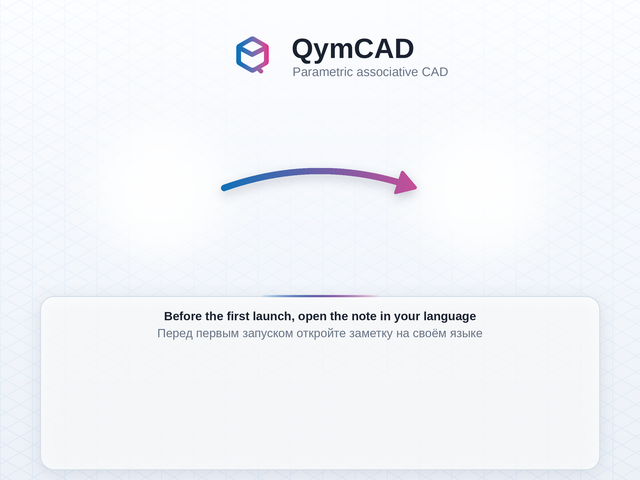
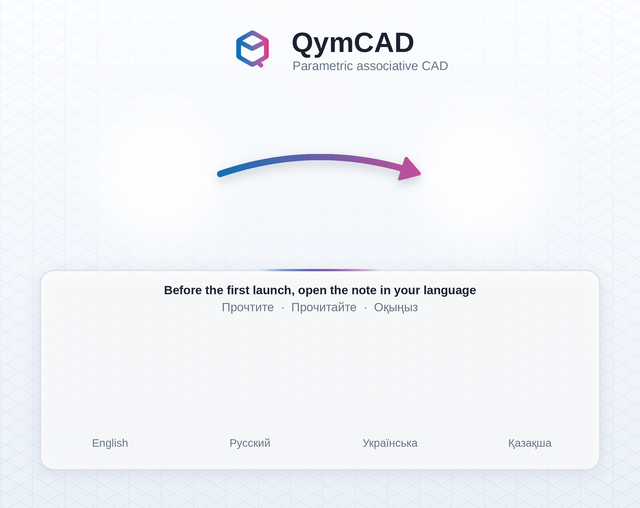
fix(packaging): the disk image carries a note per language and keeps it clear of Finder's status bar
Reported behaviour, on a screenshot of the opened image: the notes' names were hidden at the bottom of the
window, and the Ukrainian and Kazakh notes were missing. Measured on the screenshot: the title bar is 32
points on macOS 26, not 28, and Finder's status bar takes another 28 off the bottom. The status bar is
Finder's own setting, shared by every window; the image cannot turn it off.

- The window is the title bar, the 480-point design and the status bar's strip; the picture runs on under
  the strip with plain ground, so the design is whole with the bar shown or hidden.
- Four notes: README.txt, ПРОЧТИ.txt, ПРОЧИТАЙ.txt, ОҚЫҢЫЗ.txt, in a row on the card, the language's own
  name painted under each. Every note gives the system's button names in its language and in English, in
  brackets: the note's language says nothing of the language macOS is set to. Icons are 88 points so the
  four fit the card.
- Places are keyed by the decomposed (NFD) file name. HFS+ stores "Й" as "И" plus a combining breve, and
  Finder matches a place by the stored name: ПРОЧИТАЙ.txt was dropped outside the window while the other
  three, holding no letter that decomposes, stood in their places.
- The Ukrainian and Kazakh READMEs name their own notes.

Checks: the layout check prints the files decomposed and the places as written - red with the places keyed
by the composed names, "ПРОЧИТАЙ.txt goes into the image with no place in the window"; it also holds the
[…]

diff --git a/crates/qymcad/src/packaging_macos.rs b/crates/qymcad/src/packaging_macos.rs
@@ -259,8 +259,8 @@ fn a_bundle_where_nothing_names_the_build_machine_is_still_assembled() {
     ] {
         assert!(held.contains(entry), "the archive does not hold {entry}:\n{held}");
     }
-    // Both notes travel, in both languages; the second is named in an alphabet this file does not spell out.
-    assert_eq!(held.lines().filter(|l| l.ends_with(".txt") && !l.contains("Contents/")).count(), 2, "both notes must be in the archive:\n{held}");
+    // A note per language of the program travels; three are named in an alphabet this file does not spell out.
+    assert_eq!(held.lines().filter(|l| l.ends_with(".txt") && !l.contains("Contents/")).count(), 4, "all four notes must be in the archive:\n{held}");
 
     let calls = fs::read_to_string(dir.join("calls.txt")).expect("the tool was called");
     assert!(calls.contains("-add_rpath @executable_path/../Frameworks"), "the bundle was not pointed at its own Frameworks:\n{calls}");
@@ -326,9 +326,9 @@ fn an_intel_build_is_named_and_described_as_one() {
     assert!(dir.join("dist/qymcad-0.1.0-macos-x86_64.dmg").exists(), "the Intel disk image is not named for its processor:\n{}", said(&out));
     assert!(!dir.join("dist/qymcad-0.1.0-macos-arm64.dmg").exists(), "the Intel build made its disk image under the Apple Silicon name");
 
-    // every note beside the archive: the English one and the Russian one
+    // every note beside the archive, one per language of the program
     let notes: Vec<std::path::PathBuf> = fs::read_dir(dir.join("dist")).expect("the dist folder").flatten().map(|e| e.path()).filter(|p| p.extension().is_some_and(|x| x == "txt")).collect();
-    assert_eq!(notes.len(), 2, "the Intel build carries {} notes, not the two: {notes:?}", notes.len());
+    assert_eq!(notes.len(), 4, "the Intel build carries {} notes, not the four: {notes:?}", notes.len());
     for note in notes {
         let text = fs::read_to_string(&note).expect("the note is written");
         assert!(text.contains("Intel") && !text.contains("Apple Silicon"), "{} does not describe an Intel build:\n{text}", note.display());
@@ -397,7 +397,7 @@ fn a_bundle_that_does_not_verify_is_not_archived() {
     assert!(!disk_image(&dir).exists(), "a disk image was made out of a bundle that does not verify");
 }
 
-/// THE DISK IMAGE, BESIDE THE ARCHIVE. It holds the program and the two notes, laid out by the settings
+/// THE DISK IMAGE, BESIDE THE ARCHIVE. It holds the program and the four notes, laid out by the settings
 /// file beside the script, and it is made from the bundle only after that bundle verified. The staging
 /// folder is gone afterwards, so `dist/` holds the packages and the bundle and nothing half-made.
 #[test]
@@ -413,7 +413,7 @@ fn a_disk_image_holds_the_verified_bundle_and_the_notes() {
     for entry in ["QymCAD.app", "README.txt"] {
         assert!(lines.contains(&entry), "the image's folder does not hold {entry}:\n{held}");
     }
-    assert_eq!(lines.iter().filter(|l| l.ends_with(".txt")).count(), 2, "both notes must be in the image:\n{held}");
+    assert_eq!(lines.iter().filter(|l| l.ends_with(".txt")).count(), 4, "all four notes must be in the image:\n{held}");
 
     let calls = signs(&dir);
     let verify = calls.iter().position(|c| c.starts_with("codesign --verify"));
@@ -435,18 +435,20 @@ fn the_notes_lead_to_open_anyway_not_to_a_terminal() {
     for step in ["Privacy & Security", "Open Anyway", "Applications"] {
         assert!(en.contains(step), "the English note does not name {step:?}:\n{en}");
     }
-    // The Russian note is the other `.txt` in dist/; its words are not spelled out in this file, so it is held
-    // to the same shape: the same four steps, the same Touch ID, the same menu path written with `->`.
-    let ru = fs::read_dir(dir.join("dist"))
+    // The other three are named and written in alphabets this file does not spell out, so each is held to the
+    // English one's shape: the same four steps, Touch ID, the menu path written with `->`, and the system's
+    // button names in English beside its own words - the note's language says nothing of the system's.
+    let notes: Vec<String> = fs::read_dir(dir.join("dist"))
         .expect("dist/ is readable")
         .map(|e| e.expect("an entry").path())
-        .find(|p| p.extension().is_some_and(|x| x == "txt") && !p.ends_with("README.txt"))
-        .map(|p| fs::read_to_string(p).expect("the Russian note is readable"))
-        .expect("the Russian note is written");
-    for step in ["  1. ", "  2. ", "  3. ", "  4. ", "Touch ID", " -> "] {
-        assert!(en.contains(step) && ru.contains(step), "the two notes differ at {step:?}:\n{en}\n{ru}");
-    }
-    for text in [&en, &ru] {
+        .filter(|p| p.extension().is_some_and(|x| x == "txt"))
+        .map(|p| fs::read_to_string(p).expect("a note is readable"))
+        .collect();
+    assert_eq!(notes.len(), 4, "a note per language of the program: English, Russian, Ukrainian, Kazakh");
+    for text in &notes {
+        for step in ["  1. ", "  2. ", "  3. ", "  4. ", "Touch ID", " -> ", "Privacy & Security", "Open Anyway"] {
+            assert!(text.contains(step), "a note lacks {step:?}:\n{text}");
+        }
         assert!(!text.contains("xattr") && !text.contains("Terminal"), "a note still sends the reader to a terminal:\n{text}");
     }
 }
@@ -477,22 +479,27 @@ struct Placed {
 /// program and Applications, the card under the notes - from the numbers in settings.py. A picture of the
 /// wrong size is stretched by nobody and cropped by Finder; an icon moved off its place sits on the arrow.
 /// The settings file is executed by python3 the way dmgbuild executes it.
+///
+/// A file is matched to its place by its name as HFS+ stores it, decomposed (NFD): the probe prints the files
+/// decomposed and the places as written, so a place keyed by a composed letter with a breve finds no file -
+/// as the Ukrainian note found none on the screen. The picture runs on under the status bar's strip, so it is that much taller.
 #[test]
 fn the_window_layout_fits_its_background() {
     let art = Path::new(env!("CARGO_MANIFEST_DIR")).join("../../packaging/macos/dmg");
     let probe = "import sys\n\
                  scope = {'defines': {'stage': 'S', 'art': sys.argv[2]}}\n\
                  exec(compile(open(sys.argv[1], encoding='utf-8').read(), 'settings.py', 'exec'), scope, scope)\n\
-                 print(scope['WIDTH'], scope['HEIGHT'], scope['icon_size'])\n\
+                 import unicodedata\n\
+                 print(scope['WIDTH'], scope['HEIGHT'], scope['STATUS_BAR'], scope['icon_size'])\n\
                  for n, (x, y) in scope['icon_locations'].items(): print(n, x, y, sep='\\t')\n\
-                 print('files', *scope['files'], sep='\\t')\n\
+                 print('files', *(unicodedata.normalize('NFD', f) for f in scope['files']), sep='\\t')\n\
                  print('symlinks', *scope['symlinks'], sep='\\t')\n";
     let out = Command::new("python3").arg("-c").arg(probe).arg(art.join("settings.py")).arg(&art).output().expect("python3 runs");
     assert!(out.status.success(), "settings.py does not execute:\n{}", said(&out));
     let text = String::from_utf8_lossy(&out.stdout).into_owned();
     let mut lines = text.lines();
     let size: Vec<f64> = lines.next().expect("the window size").split(' ').map(|v| v.parse().expect("a number")).collect();
-    let (width, height, icon) = (size[0], size[1], size[2]);
+    let (width, height, strip, icon) = (size[0], size[1], size[2], size[3]);
     let mut placed = Vec::new();
     let mut shown = Vec::new();
     for line in lines {
@@ -504,7 +511,7 @@ fn the_window_layout_fits_its_background() {
         }
     }
 
-    let picture = PngSize { width: width as u32, height: height as u32 };
+    let picture = PngSize { width: width as u32, height: (height + strip) as u32 };
     assert_eq!(png_size(&art.join("background.png")), picture, "background.png is not the window's size");
     let twice = PngSize { width: 2 * picture.width, height: 2 * picture.height };
     assert_eq!(png_size(&art.join("background@2x.png")), twice, "background@2x.png is not twice the window's size");

diff --git a/packaging/macos/dmg/settings.py b/packaging/macos/dmg/settings.py
@@ -4,36 +4,47 @@
 # are written here once, and the picture is drawn from them rather than from a second copy of the numbers.
 #
 # `dmgbuild` executes this file with `defines` set from its `-D` arguments:
-#   stage - the folder holding QymCAD.app and the two notes, made by bundle.sh;
+#   stage - the folder holding QymCAD.app and the four notes, made by bundle.sh;
 #   art   - this directory, where the background pictures lie.
 #
 # Coordinates are Finder points, measured from the top left of the window's content; an icon location is
-# the centre of the icon. The background is exactly the content size, at 1x and 2x.
+# the centre of the icon. The background is the content plus the status bar's strip, at 1x and 2x.
 import os.path
+import unicodedata
 
 stage = defines.get("stage", "")  # noqa: F821 - given by dmgbuild
 art = defines.get("art", "")  # noqa: F821
 
-# The content area. `window_rect` is the whole window, title bar included, so the window is made that much
-# taller than the picture: Finder reported the opened window as 640 x 508 for a 640 x 480 picture.
+# THE WINDOW IS THE DESIGN PLUS TWO STRIPS FINDER DRAWS OVER IT. `window_rect` is the whole window: the
+# title bar comes off its top, 32 points on macOS 26, and the status bar off its bottom, 28 points - both
+# measured on a screenshot of the opened window. The status bar is Finder's own setting, shared by every
+# window, and the image cannot turn it off: the first layout lost the notes' names under it. So the design
+# is HEIGHT tall, the picture runs on under the status bar's strip with plain ground, and the window is
+# made tall enough for both - with the bar hidden the strip simply shows as a margin.
 WIDTH, HEIGHT = 640, 480
-TITLE_BAR = 28
+TITLE_BAR = 32
+STATUS_BAR = 28
 
-APP = (160, 190)
-APPLICATIONS = (480, 190)
-NOTE_EN = (250, 396)
-NOTE_RU = (390, 396)
+APP = (160, 176)
+APPLICATIONS = (480, 176)
+
+# One note per language of the program, in a row on the card; each name says its language.
+NOTE_Y = 370
+NOTES = {
+    "README.txt": (110, NOTE_Y),
+    "ПРОЧТИ.txt": (250, NOTE_Y),
+    "ПРОЧИТАЙ.txt": (390, NOTE_Y),
+    "ОҚЫҢЫЗ.txt": (530, NOTE_Y),
+}
+# What draw_background.py writes under each note: the language's own name for itself.
+LANGUAGES = {"README.txt": "English", "ПРОЧТИ.txt": "Русский", "ПРОЧИТАЙ.txt": "Українська", "ОҚЫҢЫЗ.txt": "Қазақша"}
 
 # LZMA-compressed, read-only: 27.3 MB for the bundle that is 40.5 MB as zlib (UDZO), 36.6 MB as LZFSE (ULFO)
 # and 36.5 MB as the zip, measured on one build. It mounts on macOS 10.15 and newer; this build needs 12.
 format = "ULMO"
 filesystem = "HFS+"
 
-files = [
-    os.path.join(stage, "QymCAD.app"),
-    os.path.join(stage, "README.txt"),
-    os.path.join(stage, "ПРОЧТИ.txt"),
-]
+files = [os.path.join(stage, "QymCAD.app")] + [os.path.join(stage, name) for name in NOTES]
 symlinks = {"Applications": "/Applications"}
 
 # The volume icon: the mounted image shows the program's own icon on the desktop and in the sidebar, not
@@ -43,7 +54,7 @@ icon = os.path.join(stage, "QymCAD.app", "Contents", "Resources", "qymcad.icns")
 # background.png beside background@2x.png: dmgbuild joins the pair into one HiDPI TIFF itself.
 background = os.path.join(art, "background.png")
 
-window_rect = ((200, 140), (WIDTH, HEIGHT + TITLE_BAR))
+window_rect = ((200, 120), (WIDTH, TITLE_BAR + HEIGHT + STATUS_BAR))
 default_view = "icon-view"
 show_toolbar = False
 show_sidebar = False
@@ -52,13 +63,16 @@ show_status_bar = False
 show_tab_view = False
 show_icon_preview = False
 arrange_by = None
-icon_size = 96
+icon_size = 88
 text_size = 13
 label_pos = "bottom"
 
+# KEYED BY THE DECOMPOSED NAME. HFS+ stores a file name decomposed (NFD): "Й" becomes "И" plus a combining
+# breve. Finder matches a place to a file by that stored name, so a place keyed by the composed name is
+# never found - ПРОЧИТАЙ.txt was put wherever Finder liked, while ПРОЧТИ.txt and ОҚЫҢЫЗ.txt, which hold no
+# letter that decomposes, stood in their places. Seen on the screenshot of the opened window.
 icon_locations = {
     "QymCAD.app": APP,
     "Applications": APPLICATIONS,
-    "README.txt": NOTE_EN,
-    "ПРОЧТИ.txt": NOTE_RU,
+    **{unicodedata.normalize("NFD", name): place for name, place in NOTES.items()},
 }

diff --git a/packaging/macos/dmg/draw_background.py b/packaging/macos/dmg/draw_background.py
@@ -106,7 +106,7 @@ def header(img, width, bold, regular):
     text_w = d.textlength("QymCAD", font=name)
     gap = px(12)
     x = (px(width) - (side + gap + text_w)) / 2
-    top = px(28)
+    top = px(22)
     img.alpha_composite(logo, (round(x), top))
     # The name sits on a baseline just above the logo's middle, the line under it hangs from just below it.
     d.text((x + side + gap, top + side / 2 + px(3)), "QymCAD", font=name, fill=INK, anchor="ls")
@@ -176,8 +176,9 @@ def arrow(img, start, end, lift):
     img.alpha_composite(paint)
 
 
-def panel(img, width, top, bottom, bold, regular):
-    """The card under the two notes: what to do before the first launch, in both languages."""
+def panel(img, width, top, bottom, notes, bold, regular):
+    """The card under the notes: what to do before the first launch, and under each note's name the name
+    of its language, written in that language - the file name alone says "read me", not whose."""
     box = [px(40), px(top), px(width - 40), px(bottom)]
     radius = px(14)
     img.alpha_composite(soft_shadow(img.size, lambda d: d.rounded_rectangle(box, radius, fill=255), px(8), 0.10, (0, px(3))))
@@ -192,7 +193,12 @@ def panel(img, width, top, bottom, bold, regular):
     body = ImageFont.truetype(regular, px(12))
     y = px(top + 20)
     d.text((cx, y), "Before the first launch, open the note in your language", font=head, fill=INK, anchor="mm")
-    d.text((cx, y + px(17)), "Перед первым запуском откройте заметку на своём языке", font=body, fill=MUTED, anchor="mm")
+    d.text((cx, y + px(17)), "Прочтите  \u00b7  Прочитайте  \u00b7  Оқыңыз", font=body, fill=MUTED, anchor="mm")
+
+    # Under Finder's label of each note: about 4 points below the icon, then a 16-point line of 13-point text.
+    lang = ImageFont.truetype(regular, px(11))
+    for (x, y_note), language, half in notes:
+        d.text((px(x), px(y_note + half + 4 + 16 + 9)), language, font=lang, fill=MUTED, anchor="mm")
 
     # A thin rule of the logo's gradient along the card's top edge: the one place the colour repeats.
     rule = Image.new("RGBA", img.size, (0, 0, 0, 0))
@@ -213,20 +219,22 @@ def main():
 
     s = layout()
     width, height = s["WIDTH"], s["HEIGHT"]
+    # The picture runs on under the status bar's strip; the design stays within `height`.
+    picture = height + s["STATUS_BAR"]
     app, apps = s["APP"], s["APPLICATIONS"]
-    note_top = min(s["NOTE_EN"][1], s["NOTE_RU"][1])
+    half = s["icon_size"] / 2
+    notes = [(place, s["LANGUAGES"][name], half) for name, place in s["NOTES"].items()]
 
-    img = ground(width, height)
+    img = ground(width, picture)
     header(img, width, bold, args.regular)
     wells(img, [app, apps])
-    half = s["icon_size"] / 2
     arrow(img, (app[0] + half + 16, app[1] - 2), (apps[0] - half - 16, apps[1] - 2), 34)
-    panel(img, width, note_top - 100, height - 10, bold, args.regular)
+    panel(img, width, s["NOTE_Y"] - 100, height - 10, notes, bold, args.regular)
 
     img = img.convert("RGB")
-    img.resize((width * 2, height * 2), Image.LANCZOS).save(os.path.join(HERE, "background@2x.png"), optimize=True)
-    img.resize((width, height), Image.LANCZOS).save(os.path.join(HERE, "background.png"), optimize=True)
-    print(f"background.png {width}x{height}, background@2x.png {width * 2}x{height * 2}")
+    img.resize((width * 2, picture * 2), Image.LANCZOS).save(os.path.join(HERE, "background@2x.png"), optimize=True)
+    img.resize((width, picture), Image.LANCZOS).save(os.path.join(HERE, "background.png"), optimize=True)
+    print(f"background.png {width}x{picture}, background@2x.png {width * 2}x{picture * 2}")
     return 0
 
 

diff --git a/packaging/README.md b/packaging/README.md
@@ -122,7 +122,7 @@ cargo build --release --bin qymcad
 bash packaging/macos/bundle.sh
 ```
 
-It leaves two packages in `dist/` holding the same signed bundle and the same notes: `*-macos-<arch>.zip`, and
+It leaves two packages in `dist/` holding the same signed bundle and the same four notes: `*-macos-<arch>.zip`, and
 `*-macos-<arch>.dmg`, a disk image that shows the program beside a link to Applications.
 
 **What makes a mac bundle different.** A dylib carries the path it was BUILT at, baked into whatever
@@ -135,7 +135,7 @@ program starts here and nowhere else, and it says so only on somebody else's com
 CI, ad hoc otherwise - so the bundle verifies, but no certificate Apple issued vouches for it. On the first
 launch macOS refuses it: "Apple could not verify QymCAD is free of malware". System Settings -> Privacy &
 Security then lists it with an "Open Anyway" button; one press and the password, and it opens from then on.
-The notes beside the app walk a person through that in both languages, step by step, because whoever is not
+The notes beside the app - one per language of the program - walk a person through that step by step, because whoever is not
 told deletes the program instead. The Terminal steps (`xattr -cr`) were the way round a broken signature,
 which macOS called damaged and offered no button for; with a signature that verifies they are not needed.
 

diff --git a/README.uk.md b/README.uk.md
@@ -83,7 +83,7 @@ chmod +x qymcad-*.AppImage
 
 **macOS 12+ (Apple Silicon)** — `qymcad-*-macos-arm64.dmg`: відкрийте та перетягніть QymCAD у «Програми»;
 або `qymcad-*-macos-arm64.zip`: розархівуйте. Перший запуск буде один раз відхилено, бо збірку підписано не
-Apple: натисніть «Усе одно відкрити» в Системних параметрах -> Приватність і безпека. `README.txt` поруч із
+Apple: натисніть «Усе одно відкрити» в Системних параметрах -> Приватність і безпека. `ПРОЧИТАЙ.txt` поруч із
 програмою описує це покроково.
 
 ## Довідка

diff --git a/README.kk.md b/README.kk.md
@@ -85,7 +85,7 @@ chmod +x qymcad-*.AppImage
 **macOS 12+ (Apple Silicon)** — `qymcad-*-macos-arm64.dmg`: ашып, QymCAD-ты «Бағдарламалар» қалтасына
 сүйреңіз; немесе `qymcad-*-macos-arm64.zip`: ашыңыз. Жинаққа Apple қол қоймағандықтан, алғашқы іске қосу бір
 рет қабылданбайды: System Settings -> Privacy & Security ішінде «Open Anyway» батырмасын басыңыз.
-Бағдарламаның жанындағы `README.txt` мұны қадам бойынша сипаттайды.
+Бағдарламаның жанындағы `ОҚЫҢЫЗ.txt` мұны қадам бойынша сипаттайды.
 
 ## Анықтама
 
